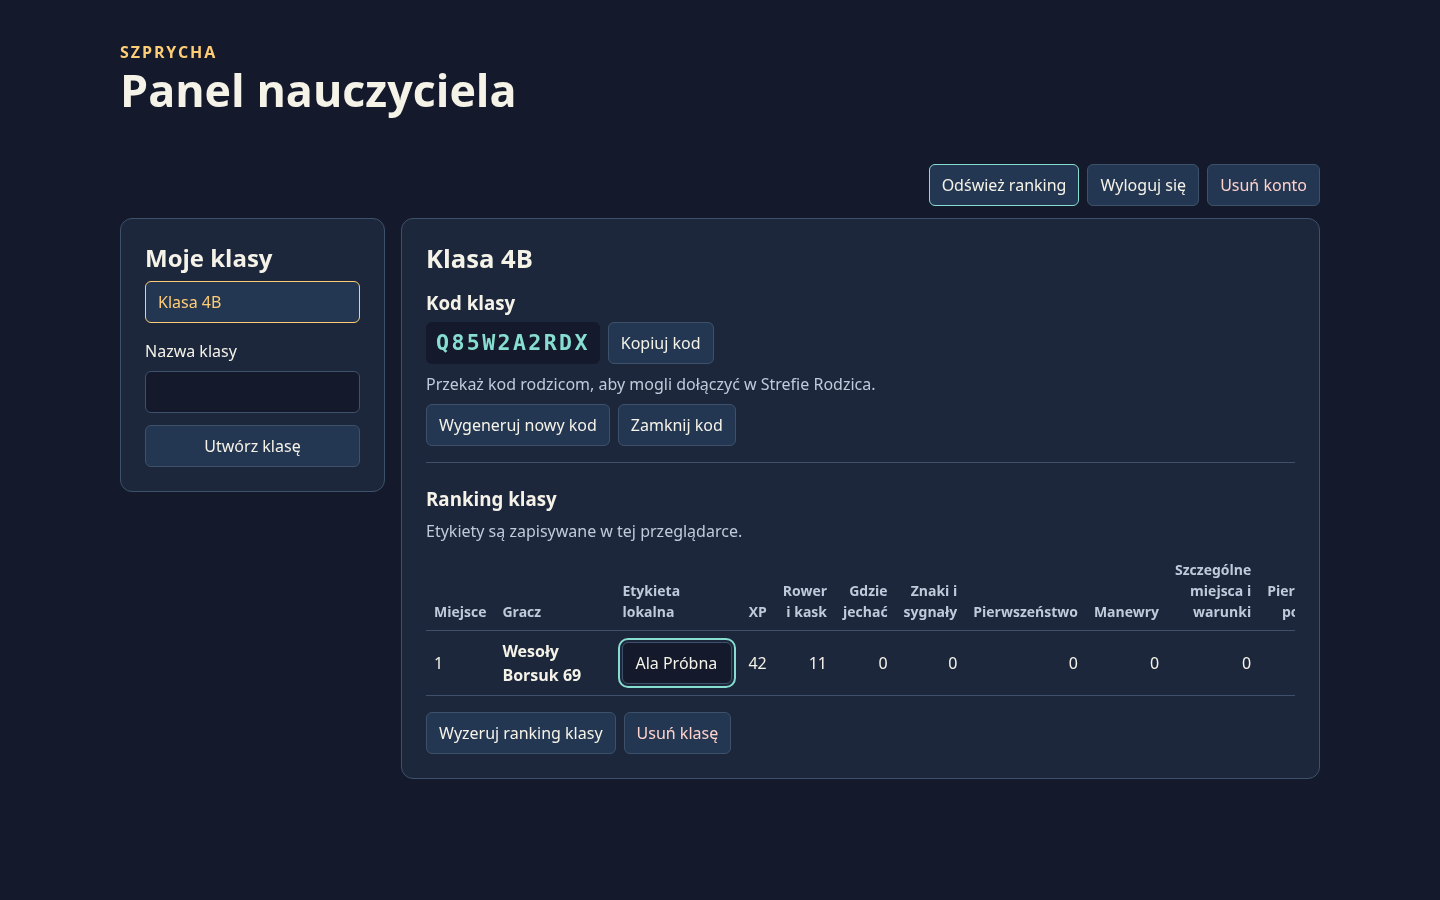
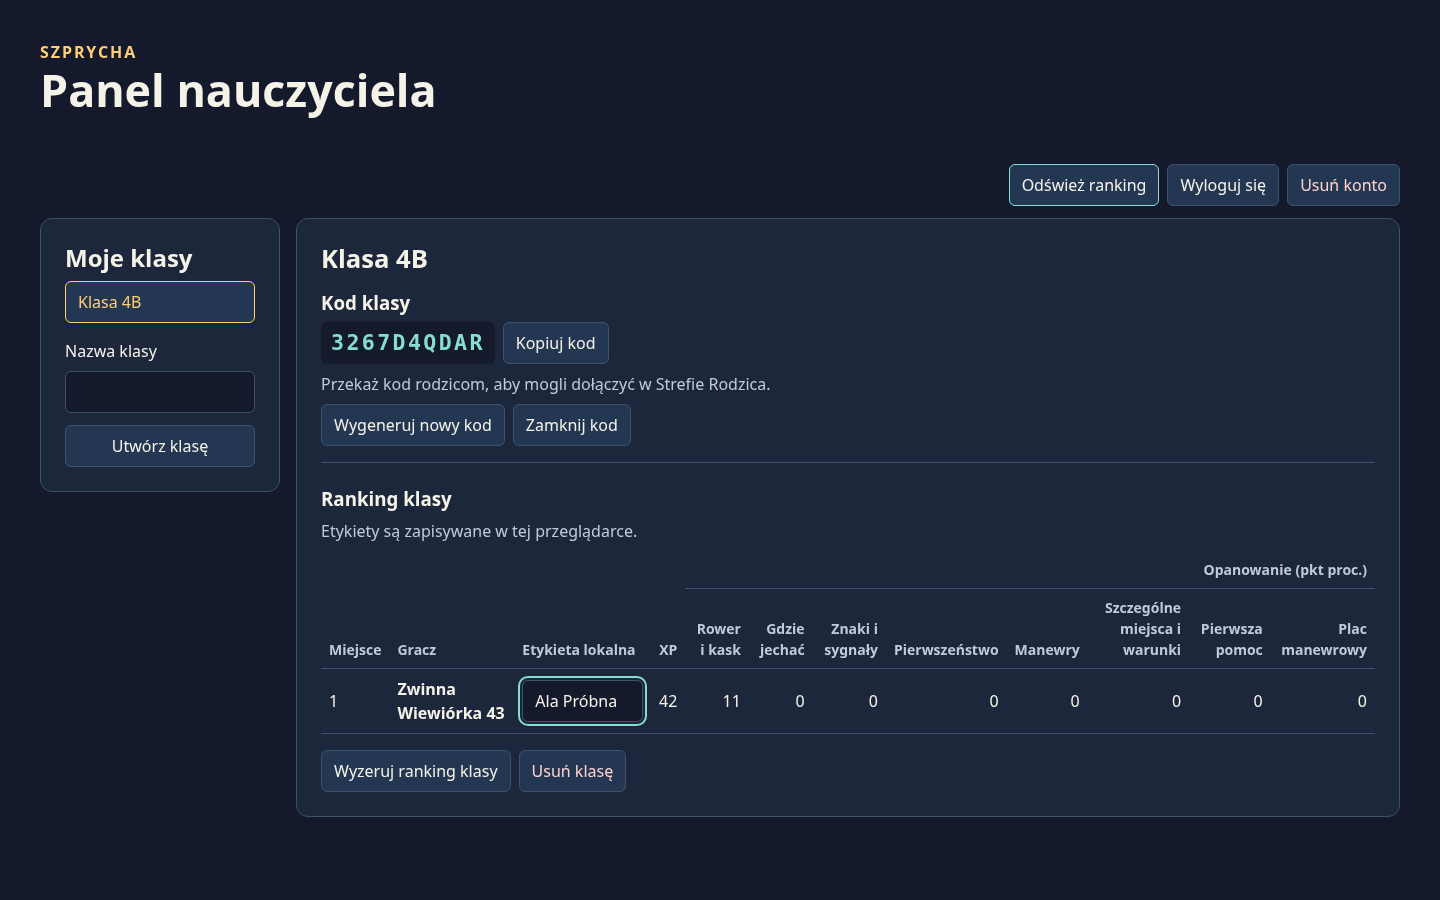
fix: ogranicz sprawdzanie członkostwa i dopracuj tabelę klasy

diff --git a/src/teacher/main.ts b/src/teacher/main.ts
@@ -310,18 +310,29 @@ function setup(client: TeacherClient) {
     }
     const table = node('table');
     table.setAttribute('aria-label', copy.board);
-    const head = table.createTHead().insertRow();
-    const columns = [
+    const headings = table.createTHead();
+    const group = headings.insertRow();
+    for (const title of [
       ui.rankings.place,
       ui.rankings.player,
       copy.label,
       classCopy.xp,
-      ...moduleId.options.map((module) => ui.skillMap.modules[module]),
-    ];
-    for (const title of columns) {
+    ]) {
       const cell = node('th', title);
       cell.scope = 'col';
-      head.append(cell);
+      cell.rowSpan = 2;
+      group.append(cell);
+    }
+    const masteryHeading = node('th', classCopy.mastery);
+    masteryHeading.scope = 'colgroup';
+    masteryHeading.colSpan = moduleId.options.length;
+    masteryHeading.className = 'mastery-heading';
+    group.append(masteryHeading);
+    const modules = headings.insertRow();
+    for (const module of moduleId.options) {
+      const cell = node('th', ui.skillMap.modules[module]);
+      cell.scope = 'col';
+      modules.append(cell);
     }
     const body = table.createTBody();
     for (const { nickname, memberId, position, xp, mastery } of rows) {

diff --git a/src/teacher/teacher.css b/src/teacher/teacher.css
@@ -19,7 +19,7 @@ body {
   margin: 0;
 }
 .teacher {
-  max-width: 1280px;
+  max-width: 1440px;
   margin-inline: auto;
   padding: clamp(16px, 4vw, 40px);
 }
@@ -82,7 +82,7 @@ nav:not(:empty) {
 }
 .layout {
   display: grid;
-  grid-template-columns: minmax(180px, 265px) minmax(0, 1fr);
+  grid-template-columns: minmax(180px, 240px) minmax(0, 1fr);
   gap: 16px;
   align-items: start;
 }
@@ -198,7 +198,9 @@ tbody th {
 td input {
   min-width: 110px;
 }
-thead th:nth-child(n + 4),
+.mastery-heading,
+thead tr:last-child th,
+thead tr:first-child th:nth-child(4),
 tbody td:nth-child(n + 4) {
   text-align: right;
 }

diff --git a/src/ui/ClassMembership.ts b/src/ui/ClassMembership.ts
@@ -79,7 +79,7 @@ export function classMembership(client: RankingClient) {
   form.append(label, join);
   section.append(title, help, form, leave, status);
   refresh();
-  if (client.enabled || client.classJoined) {
+  if (client.enabled && client.classJoined) {
     void client
       .refreshClassMembership()
       .then(refresh)
